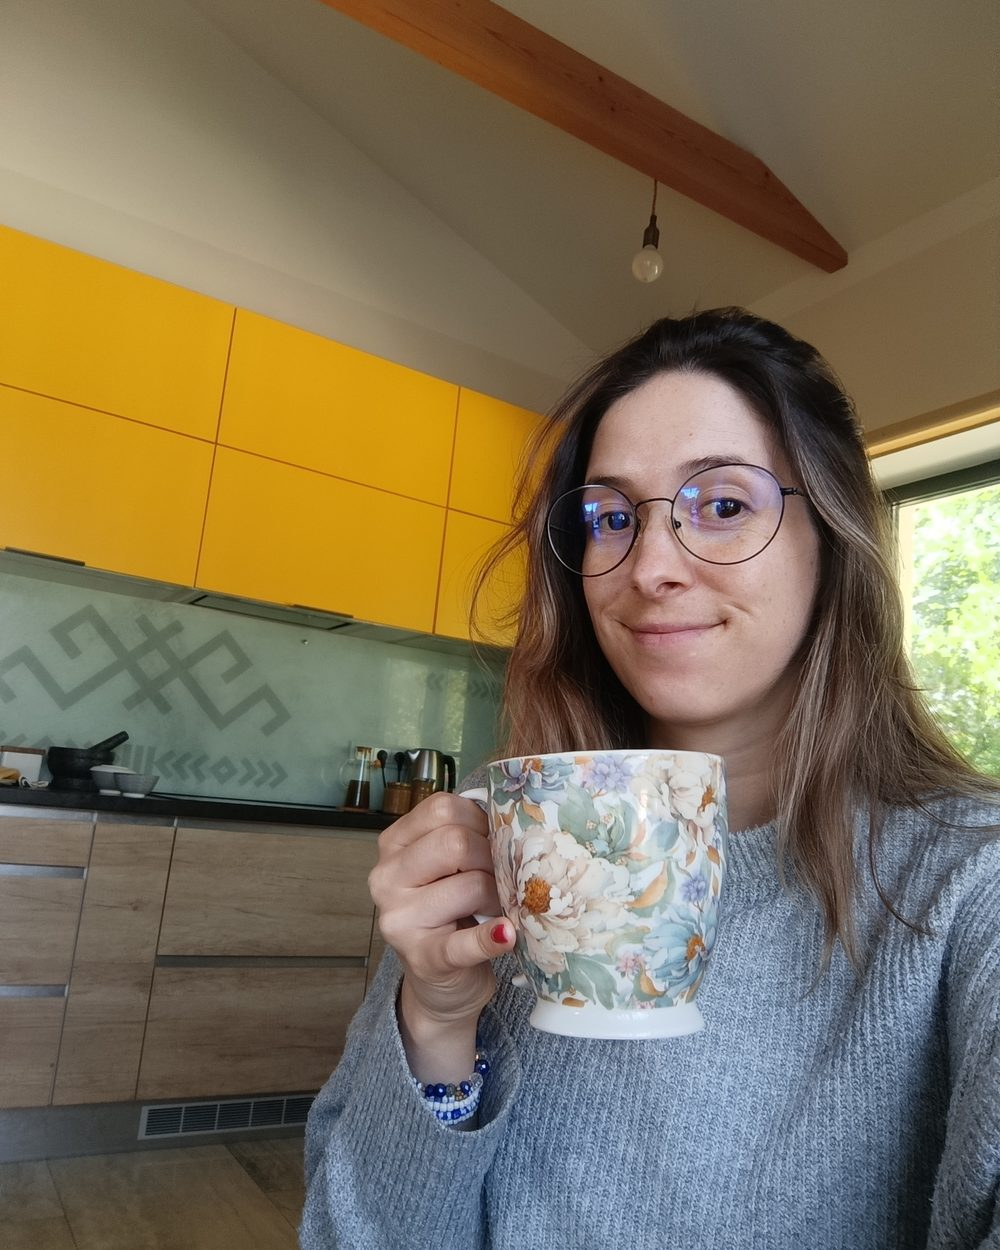
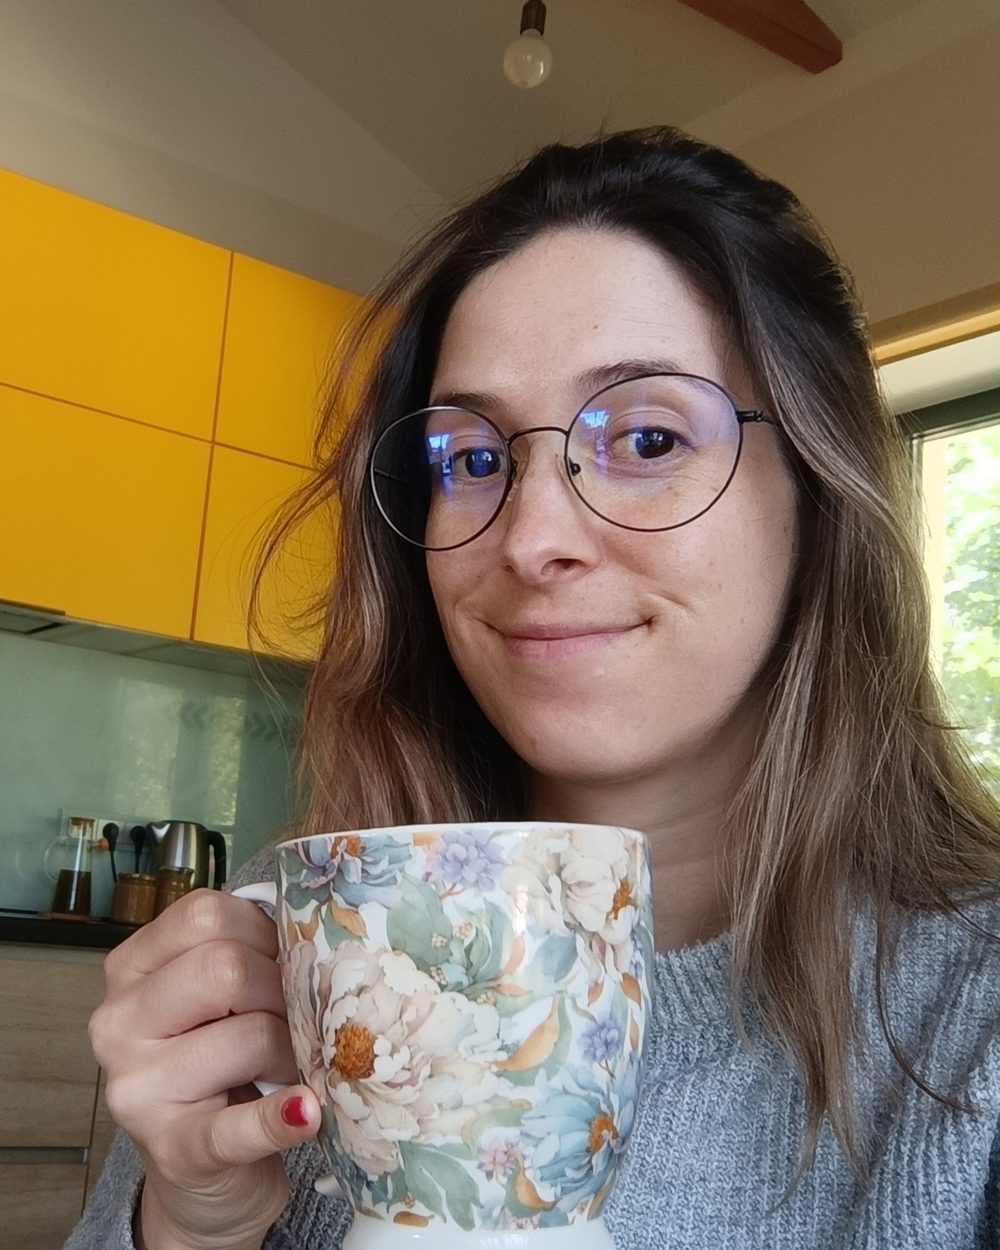
Home hero: tighter portrait crop and larger secondary Polaroids
Re-crops the portrait ~1.6x around the face so there is no empty kitchen on the left,
makes the two secondary Polaroids bigger (190px / 165px on desktop) and hangs them below
the portrait's lower corners so it stays clear. Nudges the group down and shrinks the
sun icon so it no longer touches the portrait frame.

Claude-Session: https://claude.ai/code/session_01UosA3QACKqRnPViVEy1bAz

diff --git a/src/pages/Index.tsx b/src/pages/Index.tsx
@@ -33,11 +33,11 @@ const Index = () => {
   return (
     <Layout>
       {/* ── Hero ── Blue bg + Crema text · same layout as the Contact title band: copy left, photos right ── */}
-      <section className="relative bg-blue pb-20 pt-14 md:pb-40 md:pt-24">
+      <section className="relative bg-blue pb-24 pt-14 md:pb-44 md:pt-24">
         {/* Two loose line icons (DS: max 2–3 per section) */}
         <Icon
           name="sunshine"
-          className="absolute right-[6%] top-8 hidden h-16 w-16 animate-float text-butter motion-reduce:animate-none md:block lg:h-20 lg:w-20"
+          className="absolute right-[6%] top-8 hidden h-14 w-14 animate-float text-butter motion-reduce:animate-none md:block lg:h-16 lg:w-16"
         />
         <Icon
           name="water-glass"
@@ -53,8 +53,8 @@ const Index = () => {
             <p className="mt-6 max-w-xl text-p2 leading-relaxed text-crema/85 md:text-p3">{tr.heroSub}</p>
           </motion.div>
 
-          {/* Portrait with two small Polaroids on its lower corners, sitting a little low in the band like the Contact hero */}
-          <div className="relative z-10 mx-auto w-[230px] sm:w-[260px] md:ml-auto md:mr-0 md:w-[280px] md:translate-y-28">
+          {/* Portrait with two larger Polaroids hanging off its lower corners, so the portrait stays clear */}
+          <div className="relative z-10 mx-auto w-[230px] sm:w-[260px] md:ml-auto md:mr-0 md:w-[280px] md:translate-y-8">
             <Polaroid
               src="/photos/hero-cata.jpg"
               alt="Catalina Mejia, founder of Blumaa"
@@ -68,7 +68,7 @@ const Index = () => {
               rotate={-7}
               aspect="1 / 1"
               delay={0.25}
-              className="absolute -bottom-6 -left-12 w-[104px] md:-left-20 md:w-[140px]"
+              className="absolute -bottom-12 -left-8 w-[132px] md:-bottom-20 md:-left-16 md:w-[160px] lg:-bottom-24 lg:-left-20 lg:w-[190px]"
             />
             <Polaroid
               src="/photos/hero-ipad.jpg"
@@ -76,7 +76,7 @@ const Index = () => {
               rotate={8}
               aspect="1 / 1"
               delay={0.5}
-              className="absolute -bottom-6 -right-6 w-[92px] md:-bottom-4 md:w-[120px]"
+              className="absolute -bottom-10 -right-6 w-[118px] md:-bottom-16 md:-right-4 md:w-[140px] lg:-bottom-20 lg:w-[165px]"
             />
           </div>
         </div>
